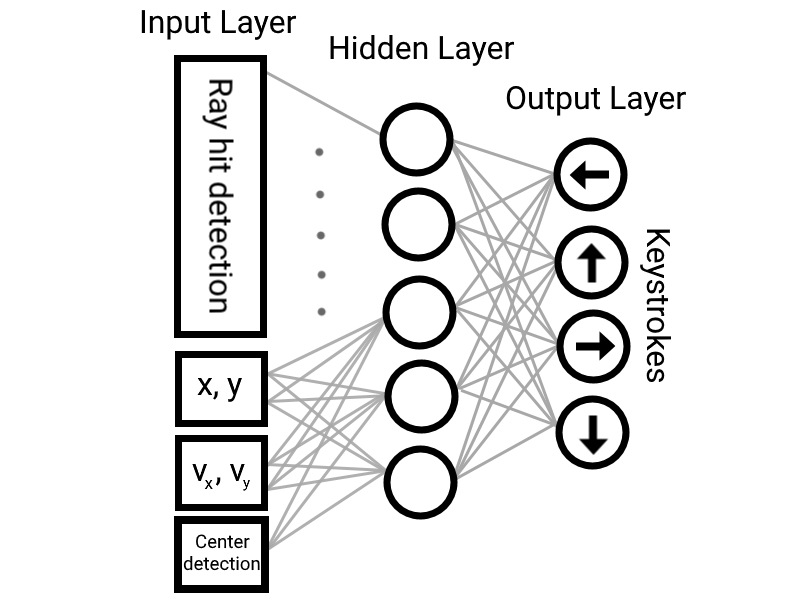
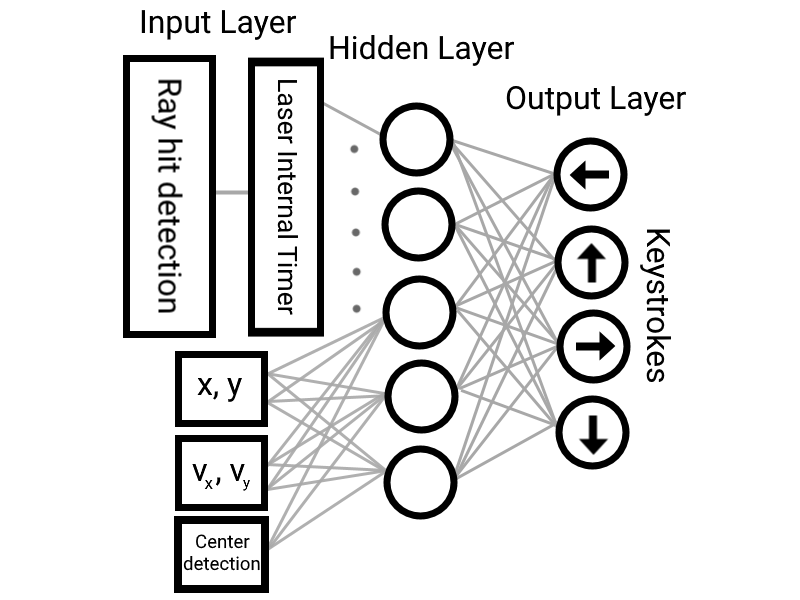
added images

diff --git a/index.html b/index.html
@@ -8,6 +8,8 @@
     <link rel="stylesheet" href="TemplateData/style.css">
     <script src="TemplateData/UnityProgress.js"></script>
     <script src="Build/UnityLoader.js"></script>
+    <script src="https://polyfill.io/v3/polyfill.min.js?features=es6"></script>
+    <script id="MathJax-script" async src="https://cdn.jsdelivr.net/npm/mathjax@3/es5/tex-mml-chtml.js"></script>
     <script>
       var unityInstance = UnityLoader.instantiate("unityContainer", "Build/grp 4 test.json", {onProgress: UnityProgress});
     </script>
@@ -16,12 +18,11 @@
     <div class="webgl-content">
       <div id="unityContainer" style="width: 1067px; height: 600px"></div>
       <div class="footer">
-        <div class="webgl-logo"></div>
         <div class="fullscreen" onclick="unityInstance.SetFullscreen(1)"></div>
-        <div class="title">Neuroevolution</div>
       </div>
     </div>
 
+    <img src="images/control.png" />
     <p>
       This is a game of dodging lasers, the only objective of the game is to survive as long as possible, there are 2 bots in the game too, they are both trained using neuroevolution.
     </p>
@@ -32,21 +33,27 @@
     </p>
 
     <h1>Neuro</h1>
+    <img src="images/neuralNet.png" />
+    <img src="images/netEquation.png" />
     <p>
       "Neuro" corresponds to neural network. Neural network can be thought of as a mathematical function, which takes a list of numbers(vector) as inputs, then outputs another list of numbers(vector).
     </p>
+    <img src="images/quadratic.gif" />
     <p>
       Neural network is a function that have coefficient or parameters, which you can change in order to achieve a different output. <br />
       Just like for quadratic function (ax^2 + bx + c = y) where a, b and c are parameters which you can change to achieve a different result.
     </p>
+    <img src="images/botBrain.png" />
     <p>
       In this game, the neural network takes information from the environment as input, then outputs the decision of the bot. So neural network acts as the brain of the bots.
     </p>
     <p>
       But how should you choose the parameters for the neural network? This is where the "Evolution" part comes in to play.
     </p>
+ 
 
     <h1>Evolution</h1>
+    <img src="images/evolution.jpeg" />
     <p>
       "Evolution" corresponds to genetic algorithm. Genetic algorithm is based on natural selection, which means that only the fittest organism can survive, that's why organism tends to evolve as time passes. There are 5 basic steps in genetic algorithm:
     </p>
@@ -54,28 +61,34 @@
     <p>
       Initialize a population. In the game above, a bunch of bots are create, where each of them has a neural network as their brain
     </p>
+    <img src="images/initialization.png" />
     <h3>2. Selection</h3>
     <p>
       Select the fittest. In the game above, the bots are forced to play the laser game, where all the bots with a weak neural network will touch the lasers and die. 
     </p>
+    <img src="images/selection.png" />
     <h3>3. Crossover</h3>
     <p>
       Create some new bots based on the fittest bots. In the game above, a new population of bots are initialized, and their brain are copied from the 5 bots that survived the longest
     </p>
+    <img src="images/crossover.png" />
     <h3>4. Mutation</h3>
     <p>
       The gene of the new bots are mutated. In the game above, the parameters of the neural network of the bots in the new population is slightly changed.
     </p>
+    <img src="images/mutation.png" />
     <h3>5. Repeat</h3>
     <p>
       Repeat step 2-4.
     </p>
+    <img src="images/train.gif" />
 
     <h1>Architecture and Parameters</h1>
     <p>
       This section is for people who are familiar with neurooevolution.
     </p>
     <h3>Architecture</h3>
+    <img src="images/architecture.png" />
     <ul>
       <li>Layer: 3</li>
       <li>Input Layer Size: 17 units</li>
@@ -83,16 +96,21 @@
       <li>Output Layer Size: 4 units</li>
     </ul>
     <h4>Input Layer</h4>
-    <p>
-      <ul>
+    <ul>
+      <img src="images/inputLaserDetection.png" />
       <li>12 of the input units are ray detection (1 for each ray): return 0 when no laser detected, else return the distance of the bot from the laser</li>
+      <img src="images/inputAgent.png" />
       <li>4 of the input units are x position, y position, x velocity and y velocity</li>
+      <img src="images/inputCenter.png" />
       <li>1 of the input units are center detection: return 1 when bot is in a laser, else return 0</li>
-      </ul>
+    </ul>
+    <img src="images/internalTimer.gif" />
+    <p>
       Also each laser has a internal timer, where it is initially 0 when spawning, then it increases until the spawn animation has ended, the timer will stop at 1<br />
       All the ray detection inputs are multiplied by the internal timer of the laser that it detected.
     </p>
     <h4>Output Layer</h4>
+    <img src="images/output.png" />
     <p>
       Each of the output units corresponds to one of the arrow keys. So the neural network is controlling the bot just like how you control your character in the game.
     </p>
@@ -105,14 +123,74 @@
     </ul>
 
     <h1>Additional Information</h1>
+    <img src="images/explore1.png" />
+    <img src="images/explore2.png" />
+    <img src="images/explore3.png" />
     <p>
-      In the evolution process, the best bots from the previous population will also be included in the current populations. This is can ensure that there is enough exploitation (If you know a little about reinforcement learning, you will know that this is simply balancing the explore exploit tradeoff)
+      In the evolution process, the best bots from the previous population will also be included in the current populations. This can ensure that there is enough exploitation (If you know a little about reinforcement learning, you will know that this is simply balancing the explore-exploit tradeoff)
     </p>
     <p>
       Also, the best bots so far will also be included in the current population too. (Since apparently the thing above still doesn't give enough exploitation)
     </p>
+    <img src="images/exploitation.gif" />
     <p>
       Lastly, the lasers on the wall aren't here originally, I added them because without them, the bots will all just go to a corner and do nothing, since the probability of dying when staying at a corner is smaller. (In other words this is adding exploration to avoid too much exploitation)
+    </p>
+
+    <h1>Mathematical Details of the Architecture</h1>
+    <p>
+      Raw inputs from the environment: <br />
+      \(x_{raw}\) - x position of the bot, where \(-4.37 \le x_{raw} \le 4.37\) <br />
+      \(y_{raw}\) - y position of the bot, where \(-8.25 \le y_{raw} \le 8.25\) <br />
+      \(u_{raw}\) - x velocity of the bot, where \(-3 \le u_{raw} \le 3\) <br />
+      \(v_{raw}\) - y velocity of the bot, where \(-3 \le v_{raw} \le 3\) <br />
+      \(L_{raw}=(l_1,l_2,l_3,l_4...l_{12})\) - vector of the distances from the lasers detected, where each component corresponds to one of the laser detecting rays, the component is 0 if that detecting ray doesn't detect any laser <br />
+      \(T_{raw}=(t_1,t_2,t_3,t_4...t_{12})\) - vector of the internal timers of the lasers detected <br />
+      \(c_{raw}=
+      \begin{cases}
+      1  & \text{if the bot is in a laser} \\
+      0 & \text{if the bot is not in a laser}
+      \end{cases}
+      \)<br />
+
+      The above raw inputs are not used directly as the input of the neural network, they are all squeezed into processed inputs which are in the range of -1 to 1<br />
+      Processed inputs: <br />
+      \(x=tanh(\frac{x_{raw}}2)\) - processed x position <br />
+      \(y=tanh(\frac89y_{raw})\) - processed y position <br />
+      \(u=tanh(\frac43u_{raw})\) - processed x velocity <br />
+      \(v=tanh(\frac43v_{raw})\) - processed y velocity <br />
+      \(L=T\odot 0.85^{\frac{10}3L}\) where \(\odot\) denotes the hadamard product (elementwise product) and \(0.85^{\frac{10}3L}\) is an elementwise exponential function <br />
+      \(I_0=concat(L, x, y, u, v, c_{raw})\) where concat is a function that concatenate a bunch of vectors into one long vector. E.g. \(concat((1, 2), (3, 4))=(1,2,3,4)\)<br />
+      \(I=\)column matrix of \(I_0\) <br />
+      
+      We can now use \(I\) as the input of the neural network <br />
+
+      \(H=tanh(W_{ih}I+B_{ih})\) where \(W_{ih}\) is the weight matrix between input and hidden layer, \(B_{ih}\) is the bias matrix between input and hidden layer, \(tanh()\) is an elementwise hyperbolic tangent function<br />
+      \(O=sign(W_{ho}H+B_{ho})\) where \(W_{ih}\) is the weight matrix between hidden and output layer, \(B_{ih}\) is the bias matrix between hidden and output layer, \(sign()\) is an elementwise sign function<br />
+      The matrix \(O\) has 4 components each corresponds to one of the four arrow keys. <br />
+      Let \(O=
+        \left[
+        \begin{array}{}
+        o_{left} \\ o_{right} \\ o_{up} \\ o_{down}
+        \end{array}
+        \right]
+      \), <br />
+
+      Lastly, the bot presses \(
+        \begin{cases}
+        \text{left arrow} & \text{if }o_{left} \gt o_{right} \\
+        \text{right arrow} & \text{if }o_{right} \gt o_{left} \\
+        \text{nothing} & \text{if }o_{left} = o_{right}
+        \end{cases}  
+      \)
+      and also presses \(
+        \begin{cases}
+        \text{up arrow} & \text{if }o_{up} \gt o_{down} \\
+        \text{down arrow} & \text{if }o_{down} \gt o_{up} \\
+        \text{nothing} & \text{if }o_{up} = o_{down}
+        \end{cases}  
+      \)<br />
+      <img src="images/architecture.png" />
     </p>
   </body>
 </html>
